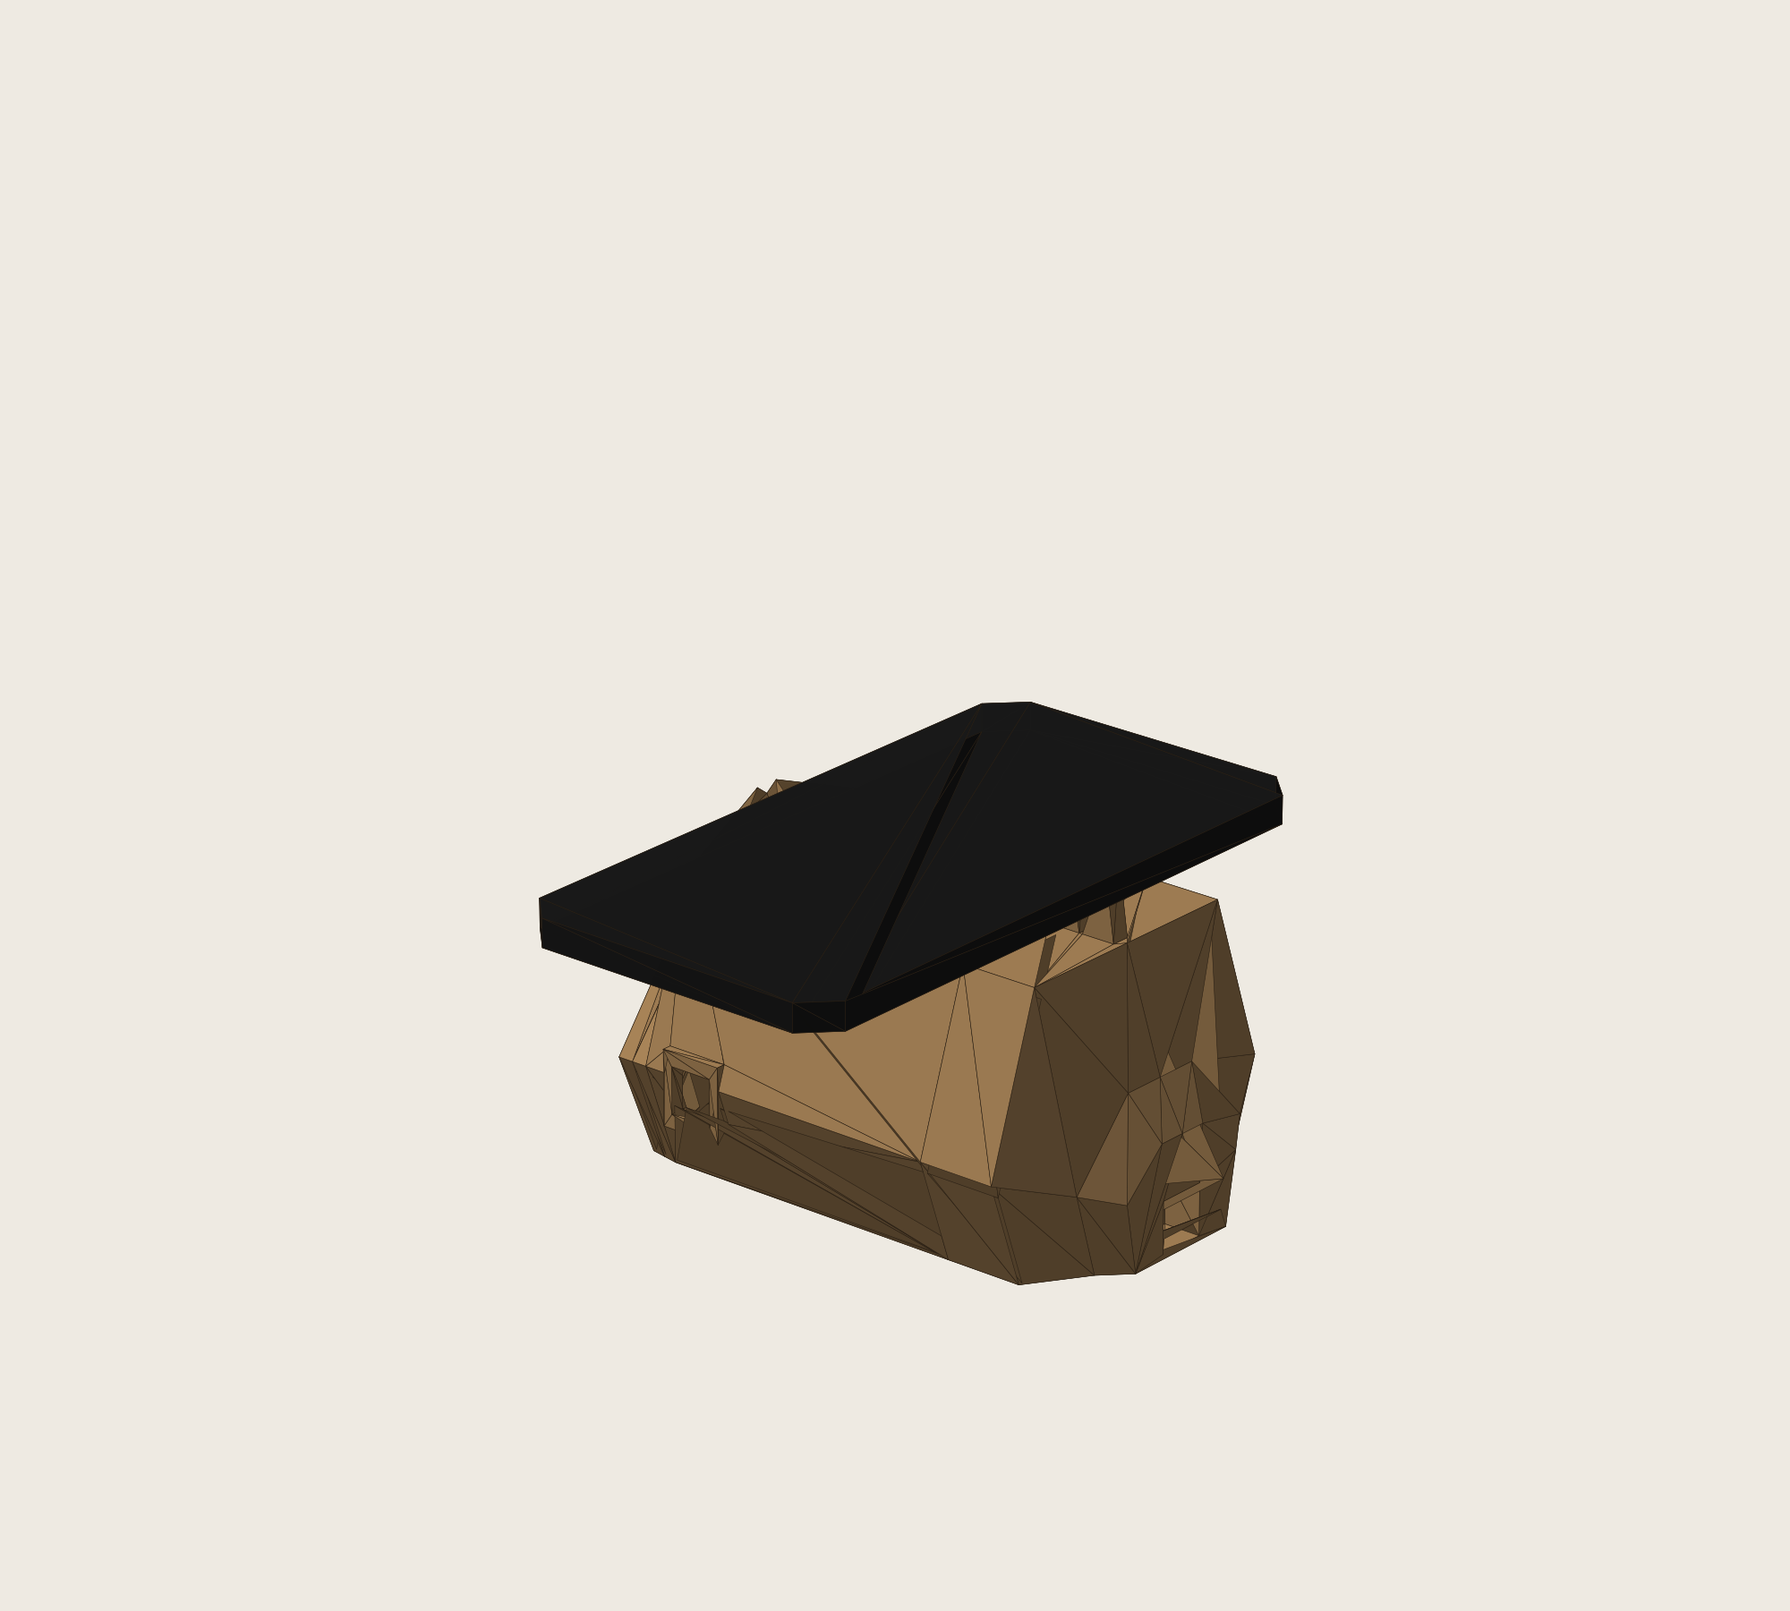
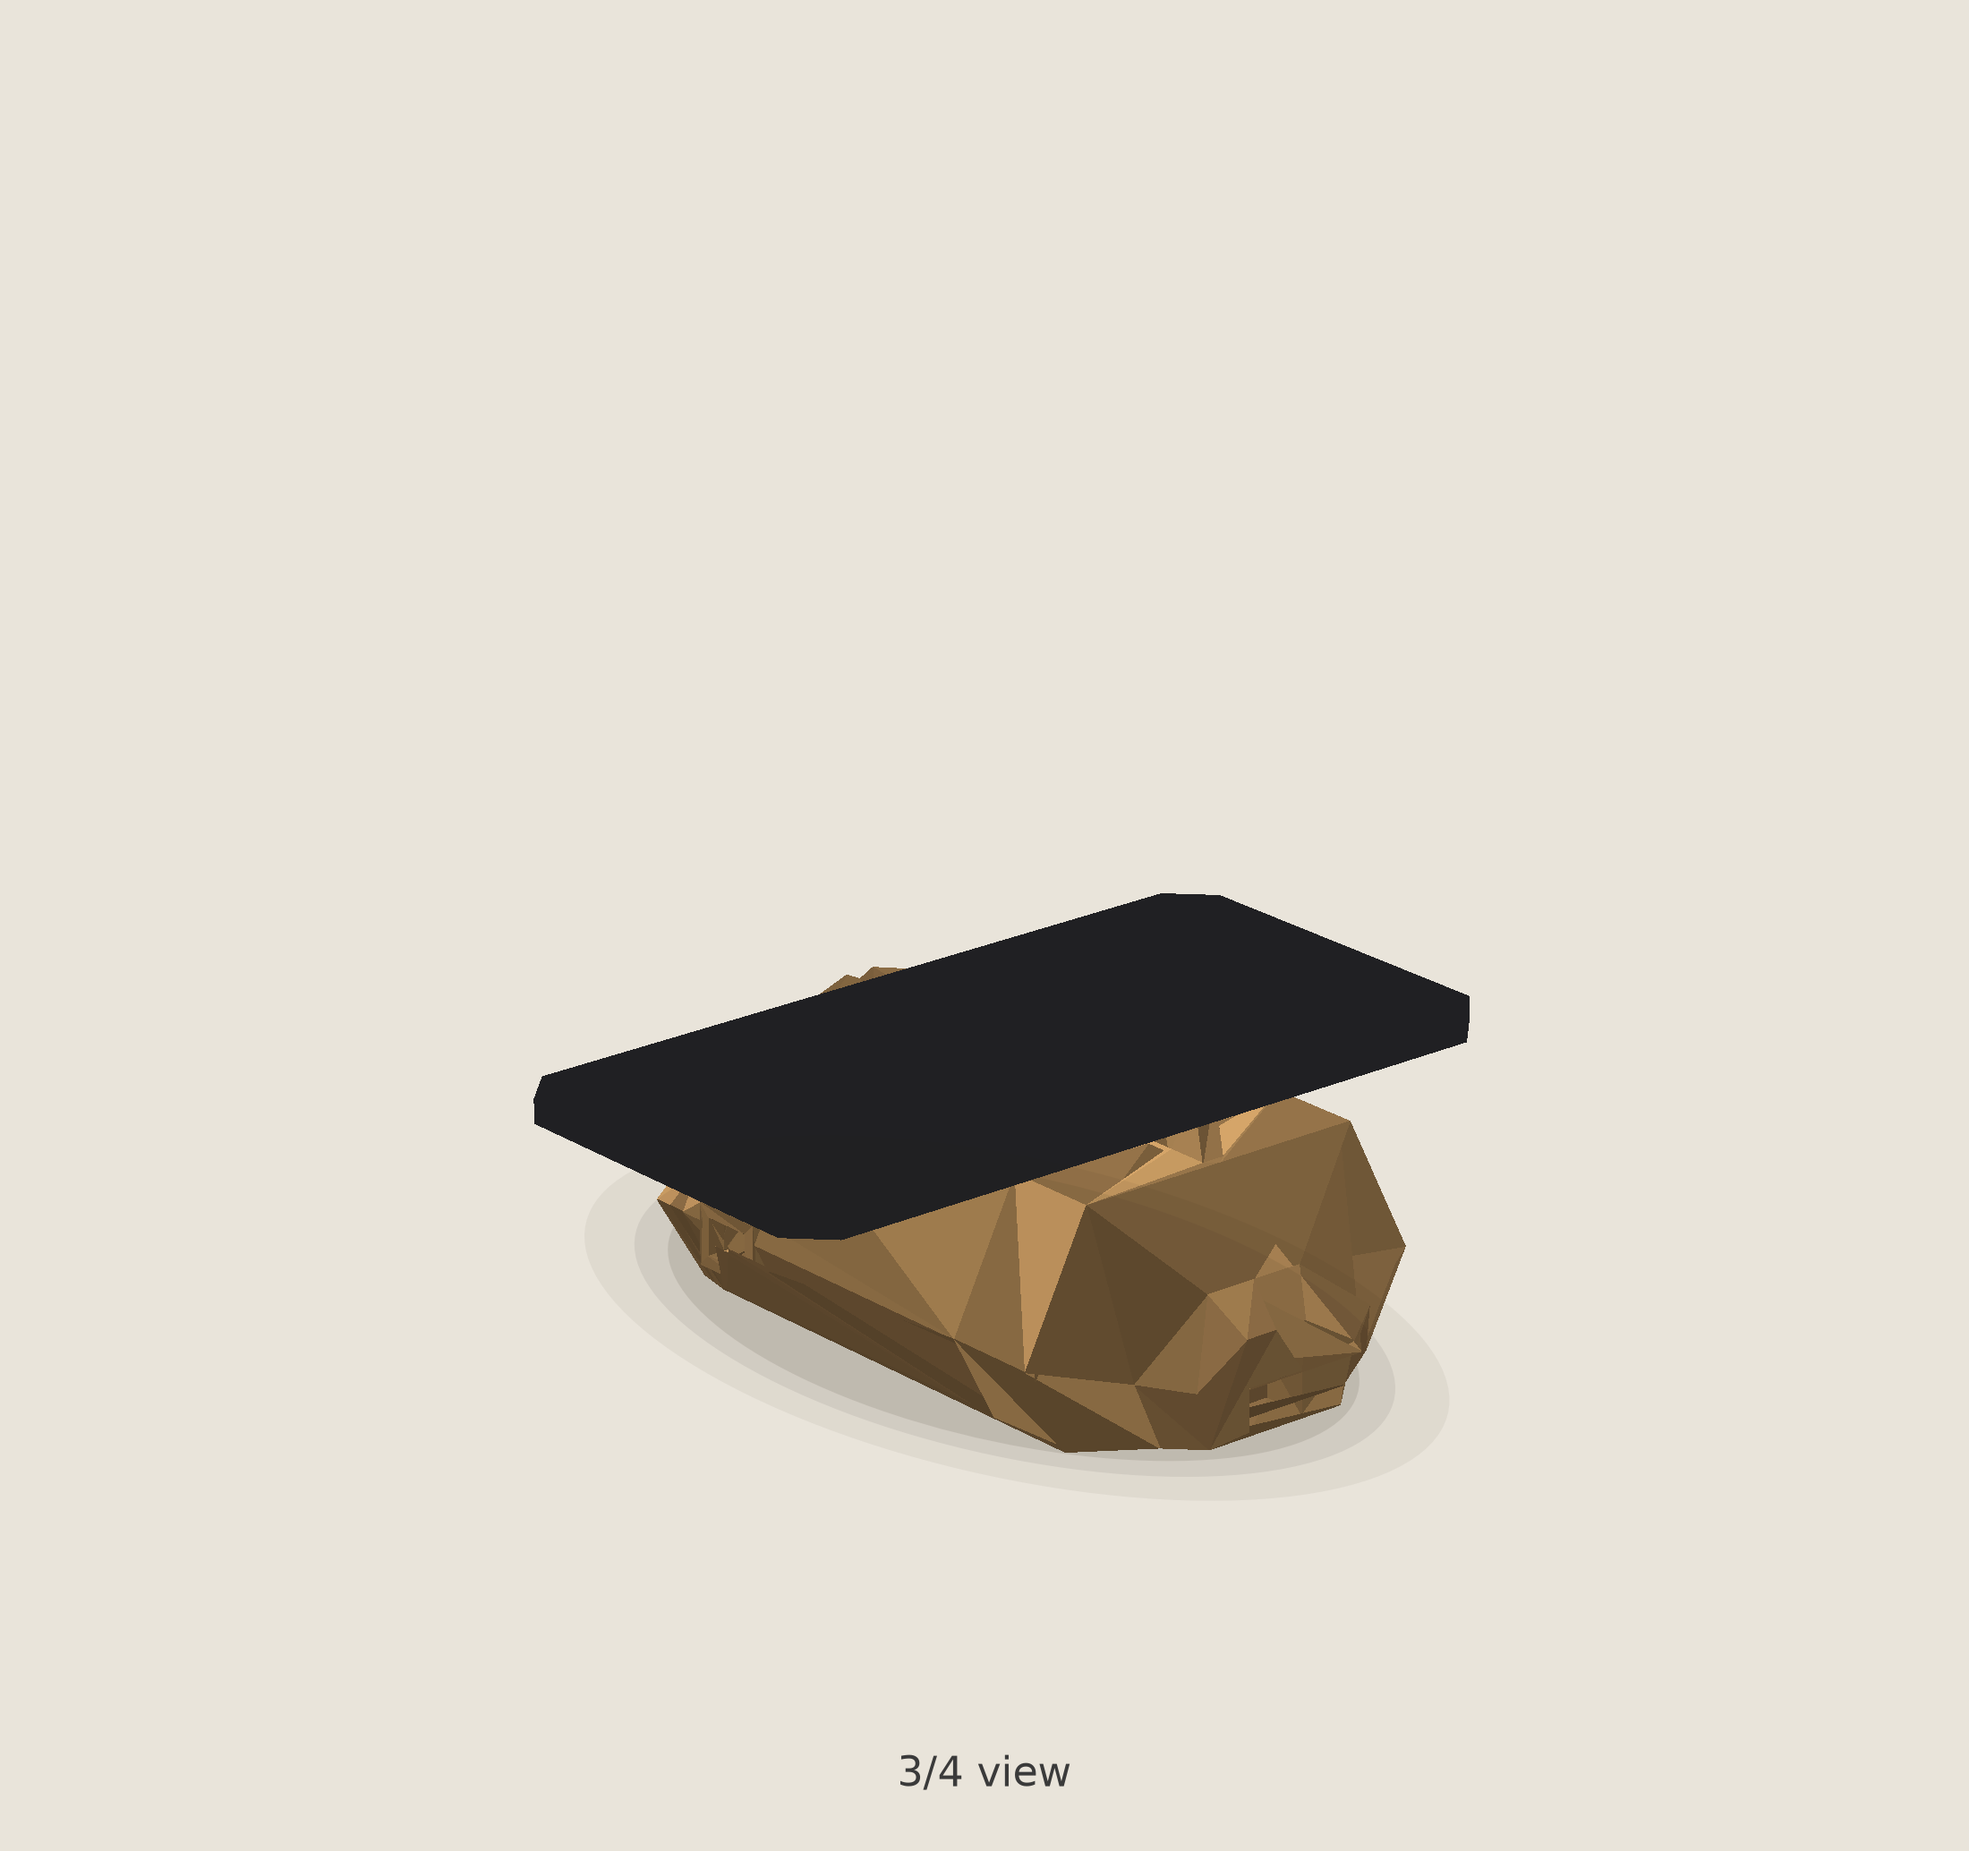
Fix render quality: plate seam, missing shadow, cleaner look
The diagonal line across the plate's top was a matplotlib antialiasing
artifact between its two coplanar triangles (verified: both have
identical [0,0,1] normals, so it was never a real geometry issue).
Fixed by giving the plate one uniform flat color instead of per-
triangle shading, and disabling antialiasing on both meshes.

Added a real drop shadow under the model so it reads as resting on
a surface. Replaced the 4-way subplot grid (which shrank everything
and made the plate's wide clamp span dominate the frame) with four
separate full-size hero shots, each with a plain-language caption.

Claude-Session: https://claude.ai/code/session_01SGh8fozgoC1NAkC23KzhgU

Changed region(s): [[0.248, 0.4356, 0.744, 0.8089], [0.465, 0.9333, 0.558, 0.9644]]

diff --git a/hardware/handlebar-enclosure/render.py b/hardware/handlebar-enclosure/render.py
@@ -2,52 +2,90 @@ import trimesh
 import numpy as np
 import matplotlib.pyplot as plt
 from mpl_toolkits.mplot3d.art3d import Poly3DCollection
+from matplotlib.patches import Ellipse
+import mpl_toolkits.mplot3d.art3d as art3d
 
 OUT = "/tmp/claude-0/-home-user-clauderep/d797779c-0f4d-5939-9a1d-ef5adbf7c278/scratchpad/enclosure_v3"
 body = trimesh.load(f"{OUT}/body.stl")
 plate = trimesh.load(f"{OUT}/plate.stl")
 
-BODY_COLOR = np.array([176, 138, 92]) / 255
-PLATE_COLOR = np.array([28, 28, 28]) / 255
+BODY_COLOR = np.array([201, 156, 99]) / 255
+PLATE_COLOR = np.array([32, 32, 35]) / 255
+BG = "#e9e4da"
 
-def shade(tris, base_rgb, light=np.array([-0.4, -0.5, 0.85])):
-    light = light / np.linalg.norm(light)
+def quad_pair_shade(mesh, base_rgb, light1, light2):
+    """Shade by averaging each pair of triangles that make up one loft quad
+    (faces are emitted in (v0,v1,v2),(v0,v2,v3) pairs by build_hull) so a
+    nominally-flat quad never shows a visible seam between its two tris.
+    Falls back to per-triangle shading for any leftover odd face out."""
+    tris = mesh.vertices[mesh.faces]
     v0, v1, v2 = tris[:, 0], tris[:, 1], tris[:, 2]
-    normals = np.cross(v1 - v0, v2 - v0)
-    norms = np.linalg.norm(normals, axis=1, keepdims=True); norms[norms == 0] = 1
-    normals = normals / norms
-    ndotl = np.clip(normals @ light, 0, 1)
-    brightness = 0.45 + 0.55 * ndotl
+    n = np.cross(v1 - v0, v2 - v0)
+    nn = np.linalg.norm(n, axis=1, keepdims=True); nn[nn == 0] = 1
+    n = n / nn
+    key = np.clip(n @ light1, 0, 1)
+    fill = np.clip(n @ light2, 0, 1)
+    brightness = 0.42 + 0.70 * key + 0.18 * fill
+    nfaces = len(mesh.faces)
+    pairs = nfaces // 2 * 2
+    avg = (brightness[0:pairs:2] + brightness[1:pairs:2]) / 2.0
+    brightness[0:pairs:2] = avg
+    brightness[1:pairs:2] = avg
+    brightness = np.clip(brightness, 0.28, 1.1)
     return np.clip(base_rgb[None, :] * brightness[:, None], 0, 1)
 
-def draw(ax, mesh, base_rgb, alpha=1.0):
+def draw(ax, mesh, base_rgb, flat=False, alpha=1.0):
     tris = mesh.vertices[mesh.faces]
-    colors = shade(tris, base_rgb)
-    ax.add_collection3d(Poly3DCollection(tris, facecolors=colors, edgecolor="#2a2015", linewidths=0.2, alpha=alpha))
+    light1 = np.array([-0.35, -0.55, 0.85]); light1 /= np.linalg.norm(light1)
+    light2 = np.array([0.6, 0.3, 0.35]); light2 /= np.linalg.norm(light2)
+    if flat:
+        # plate: uniform matte color, no per-triangle lighting at all -
+        # it's a flat slab, shading it just invites seam artifacts.
+        colors = np.tile(base_rgb, (len(tris), 1))
+    else:
+        colors = quad_pair_shade(mesh, base_rgb, light1, light2)
+    coll = Poly3DCollection(tris, facecolors=colors, edgecolor=None, linewidths=0,
+                             alpha=alpha, antialiased=False)
+    ax.add_collection3d(coll)
+
+def draw_ground_shadow(ax, mesh, z0, center, span):
+    """A simple soft drop shadow: the mesh's own footprint, flattened and
+    blurred via several overlapping translucent ellipses, sitting just
+    below the model so it reads as resting on a surface."""
+    mins, maxs = mesh.bounds
+    cx, cy = (mins[0] + maxs[0]) / 2, (mins[1] + maxs[1]) / 2
+    rx, ry = (maxs[0] - mins[0]) / 2 * 1.08, (maxs[1] - mins[1]) / 2 * 1.08
+    for k, a in [(1.25, 0.05), (1.1, 0.07), (1.0, 0.10)]:
+        p = Ellipse((cx, cy), 2 * rx * k, 2 * ry * k, facecolor="#2a2015", alpha=a, edgecolor=None)
+        ax.add_patch(p)
+        art3d.pathpatch_2d_to_3d(p, z=z0, zdir="z")
 
 def setup_axes(ax, elev, azim):
-    # scale to the BODY's bounds, not body+plate - the plate's 210mm clamp
-    # span is much wider than the body and would otherwise dominate the
-    # frame and shrink the body/snout/fins down to near-invisibility.
     mins, maxs = body.bounds
     center = (mins + maxs) / 2
-    span = (maxs - mins).max() / 2 * 1.35
-    ax.set_xlim(center[0]-span, center[0]+span); ax.set_ylim(center[1]-span, center[1]+span)
-    ax.set_zlim(-10, center[2]-span+2*span)
+    span = (maxs - mins).max() / 2 * 1.25
+    ax.set_xlim(center[0]-span, center[0]+span)
+    ax.set_ylim(center[1]-span, center[1]+span)
+    floor_z = mins[2] - 1.5
+    ax.set_zlim(floor_z, floor_z + 2*span)
     ax.set_box_aspect([1,1,1]); ax.view_init(elev=elev, azim=azim); ax.set_axis_off()
+    return center, span, floor_z
 
-views = [("iso_front", 22, -50), ("iso_rear", 22, 130), ("profile", 8, -90), ("front_nose", 8, 0)]
-fig = plt.figure(figsize=(16, 14)); fig.patch.set_facecolor("#eeeae2")
-for i, (name, elev, azim) in enumerate(views):
-    ax = fig.add_subplot(2, 2, i+1, projection="3d"); ax.set_facecolor("#eeeae2")
-    draw(ax, body, BODY_COLOR); draw(ax, plate, PLATE_COLOR, 0.97)
-    setup_axes(ax, elev, azim); ax.set_title(name, fontsize=13, color="#333")
-plt.tight_layout()
-plt.savefig(f"{OUT}/v3_4view.png", dpi=170, facecolor=fig.get_facecolor())
+def hero(name, elev, azim, label):
+    fig = plt.figure(figsize=(10, 9.4)); fig.patch.set_facecolor(BG)
+    ax = fig.add_subplot(111, projection="3d"); ax.set_facecolor(BG)
+    center, span, floor_z = setup_axes(ax, elev, azim)
+    draw_ground_shadow(ax, body, floor_z, center, span)
+    draw(ax, body, BODY_COLOR)
+    draw(ax, plate, PLATE_COLOR, flat=True, alpha=0.99)
+    fig.text(0.5, 0.035, label, ha="center", fontsize=15, color="#3a3a3a")
+    plt.subplots_adjust(left=0, right=1, top=1, bottom=0.07)
+    plt.savefig(f"{OUT}/{name}.png", dpi=220, facecolor=fig.get_facecolor())
+    plt.close(fig)
+    print("saved", name)
 
-fig2 = plt.figure(figsize=(10,9)); fig2.patch.set_facecolor("#eeeae2")
-ax2 = fig2.add_subplot(111, projection="3d"); ax2.set_facecolor("#eeeae2")
-draw(ax2, body, BODY_COLOR); draw(ax2, plate, PLATE_COLOR, 0.97)
-setup_axes(ax2, 22, -50)
-plt.tight_layout(); plt.savefig(f"{OUT}/v3_iso.png", dpi=200, facecolor=fig2.get_facecolor())
+hero("v2_corner", 20, -40, "3/4 view")
+hero("v2_side",   10, -90, "Side view  -  nose (snout) on the left, tail + fins on the right")
+hero("v2_front",   8,   0, "Front view  -  looking at the nose, clamp plate overhead")
+hero("v2_rear",    14, 100, "Rear 3/4 view  -  showing the two dorsal fins and cable port")
 print("done")

diff --git a/hardware/handlebar-enclosure/README.md b/hardware/handlebar-enclosure/README.md
@@ -6,8 +6,9 @@ Concept massing study, not manufacturing-ready. Built from a 4-way parallel
 design pass (dragon-head nose, spine fins, scaled flanks, clawed haunches),
 then merged the two that actually worked.
 
-![Isometric + profile](renders/enclosure_4view.png)
-![Body detail (no plate)](renders/body_only_detail.png)
+![Isometric + profile](renders/enclosure_iso.png)
+![Side view](renders/enclosure_side.png)
+![Rear view - dorsal fins and cable port](renders/enclosure_rear.png)
 
 ## What's in this version
 
